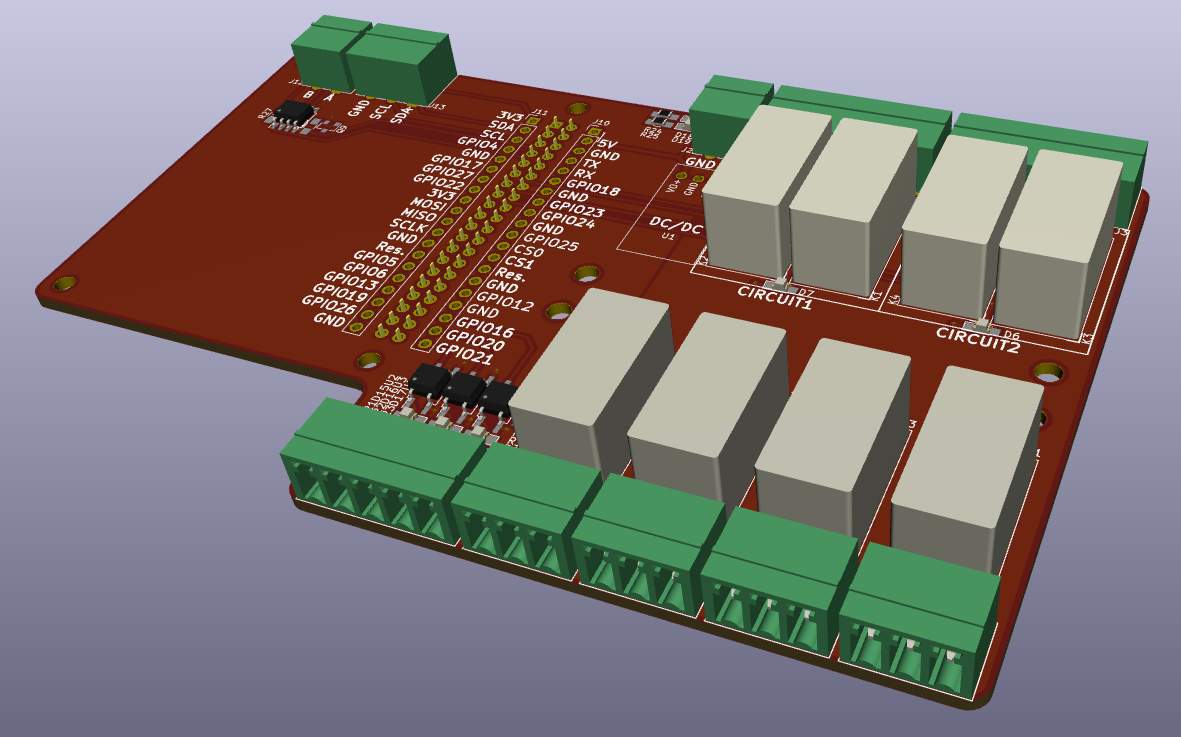
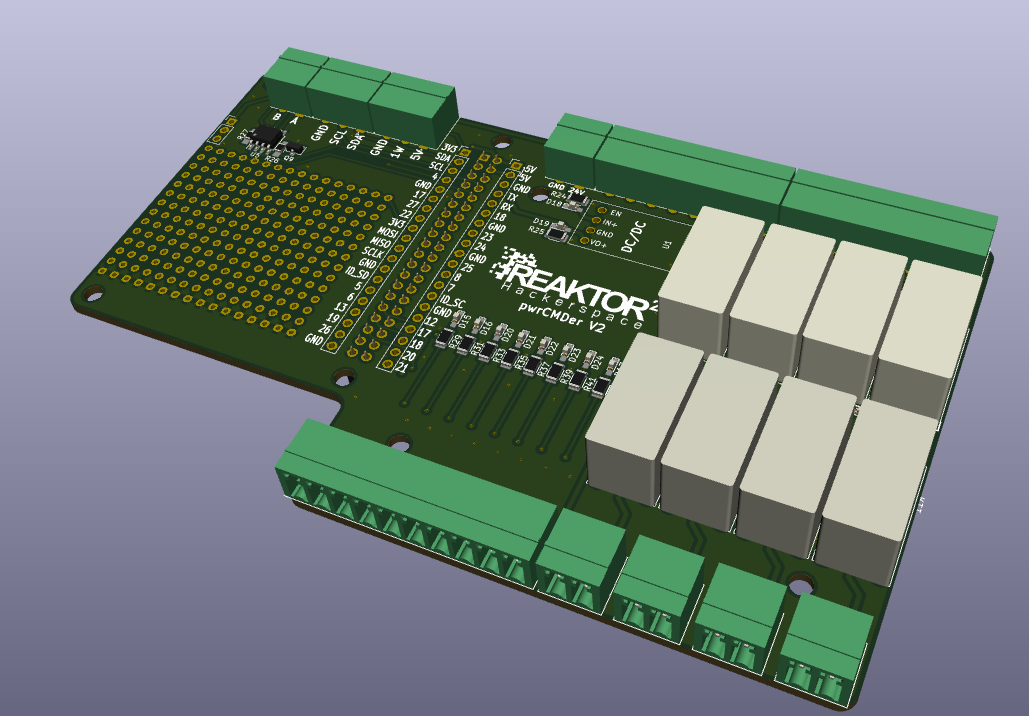
updated pwrCMDer2 project

diff --git a/content/projects/pwrcmdr2/index.md b/content/projects/pwrcmdr2/index.md
@@ -9,8 +9,8 @@ image: pwrcmdr2.png
 
 # Warum?
 
-Unser aktueller pwrCMDr besteht aus einem Arduino-Ethernet auf einer selbstgeätzten Platine.
-Da wir immer wieder Probleme damit haben soll etwas neues her, das vielleicht etwas mehr Spielraum gibt um Änderungen/Verbesserungen zu integrieren.
+Unser <strike>aktueller</strike> bisheriger pwrCMDr bestand aus einem Arduino-Ethernet auf einer selbstgeätzten Platine.
+Da wir immer wieder Probleme damit haben sollte etwas neues her, das vielleicht etwas mehr Spielraum gibt um Änderungen/Verbesserungen zu integrieren.
 
 # Hardware
 
@@ -45,4 +45,15 @@ Desweiteren hat das Board 8 Digitaleingänge die 24V tollerant sind und mittels 
 ## Sensorik
 
 Es sind ein I2C, ein 1-Wire und ein RS485 Port vorhanden. Über diese wollen wir diverse Sensorik anbinden.
+
+# Software
+
+Wir haben [Hassio](https://www.home-assistant.io/hassio/), eine speziell auf das RaspberryPi zugeschnittene Distribution von [Home Assistant](https://www.home-assistant.io) auf dem RaspberryPi installiert.
+Das hat sehr viele nett Vortiele für uns:
+
+- Ansteuerungen der GPIOs via Webinterface und/oder REST API ([rpi_gpio](https://www.home-assistant.io/components/rpi_gpio/))
+- Auslesen der 1-Wire Temperatursensoren ([sensor.onewire](https://www.home-assistant.io/components/sensor.onewire/))
+- Bereitstellen des Reaktorstatus via SpaceAPI ([spaceapi](https://www.home-assistant.io/components/spaceapi/))
+
+Ausserdem die einfache Konfiguration via YAML files und das ermöglichen von Automations und vielen weiteren coolen Features!
 
